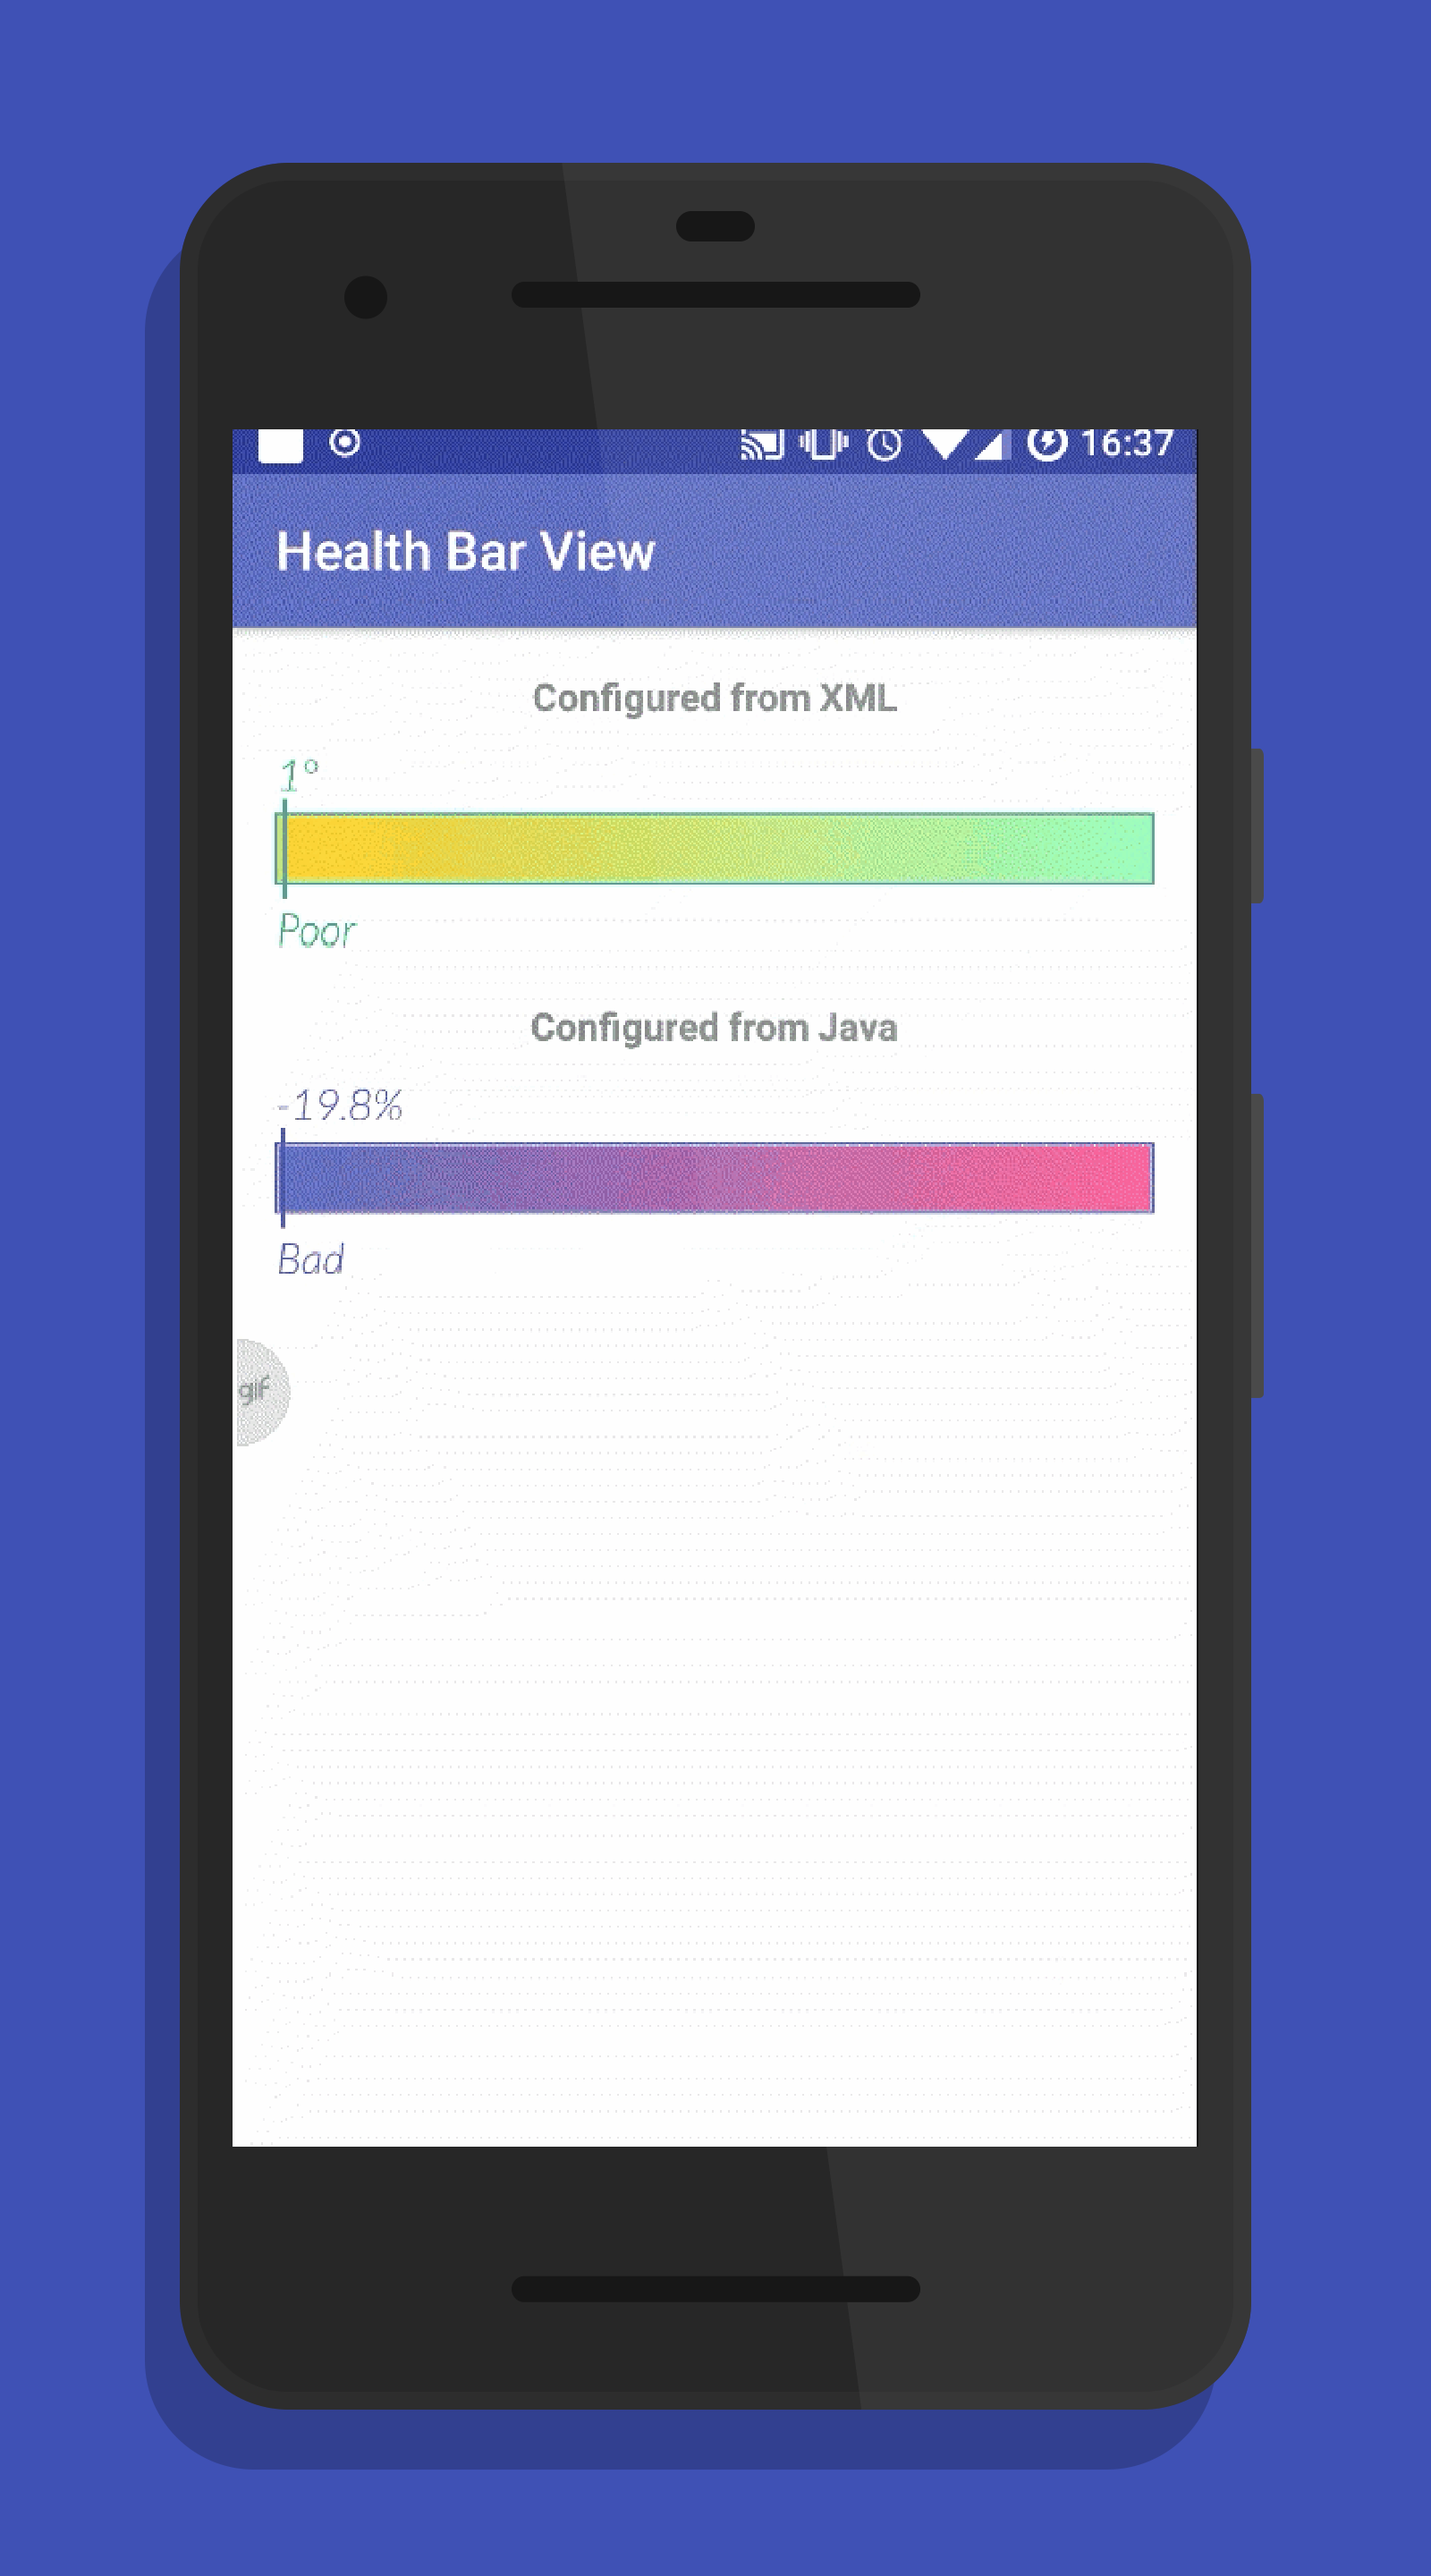
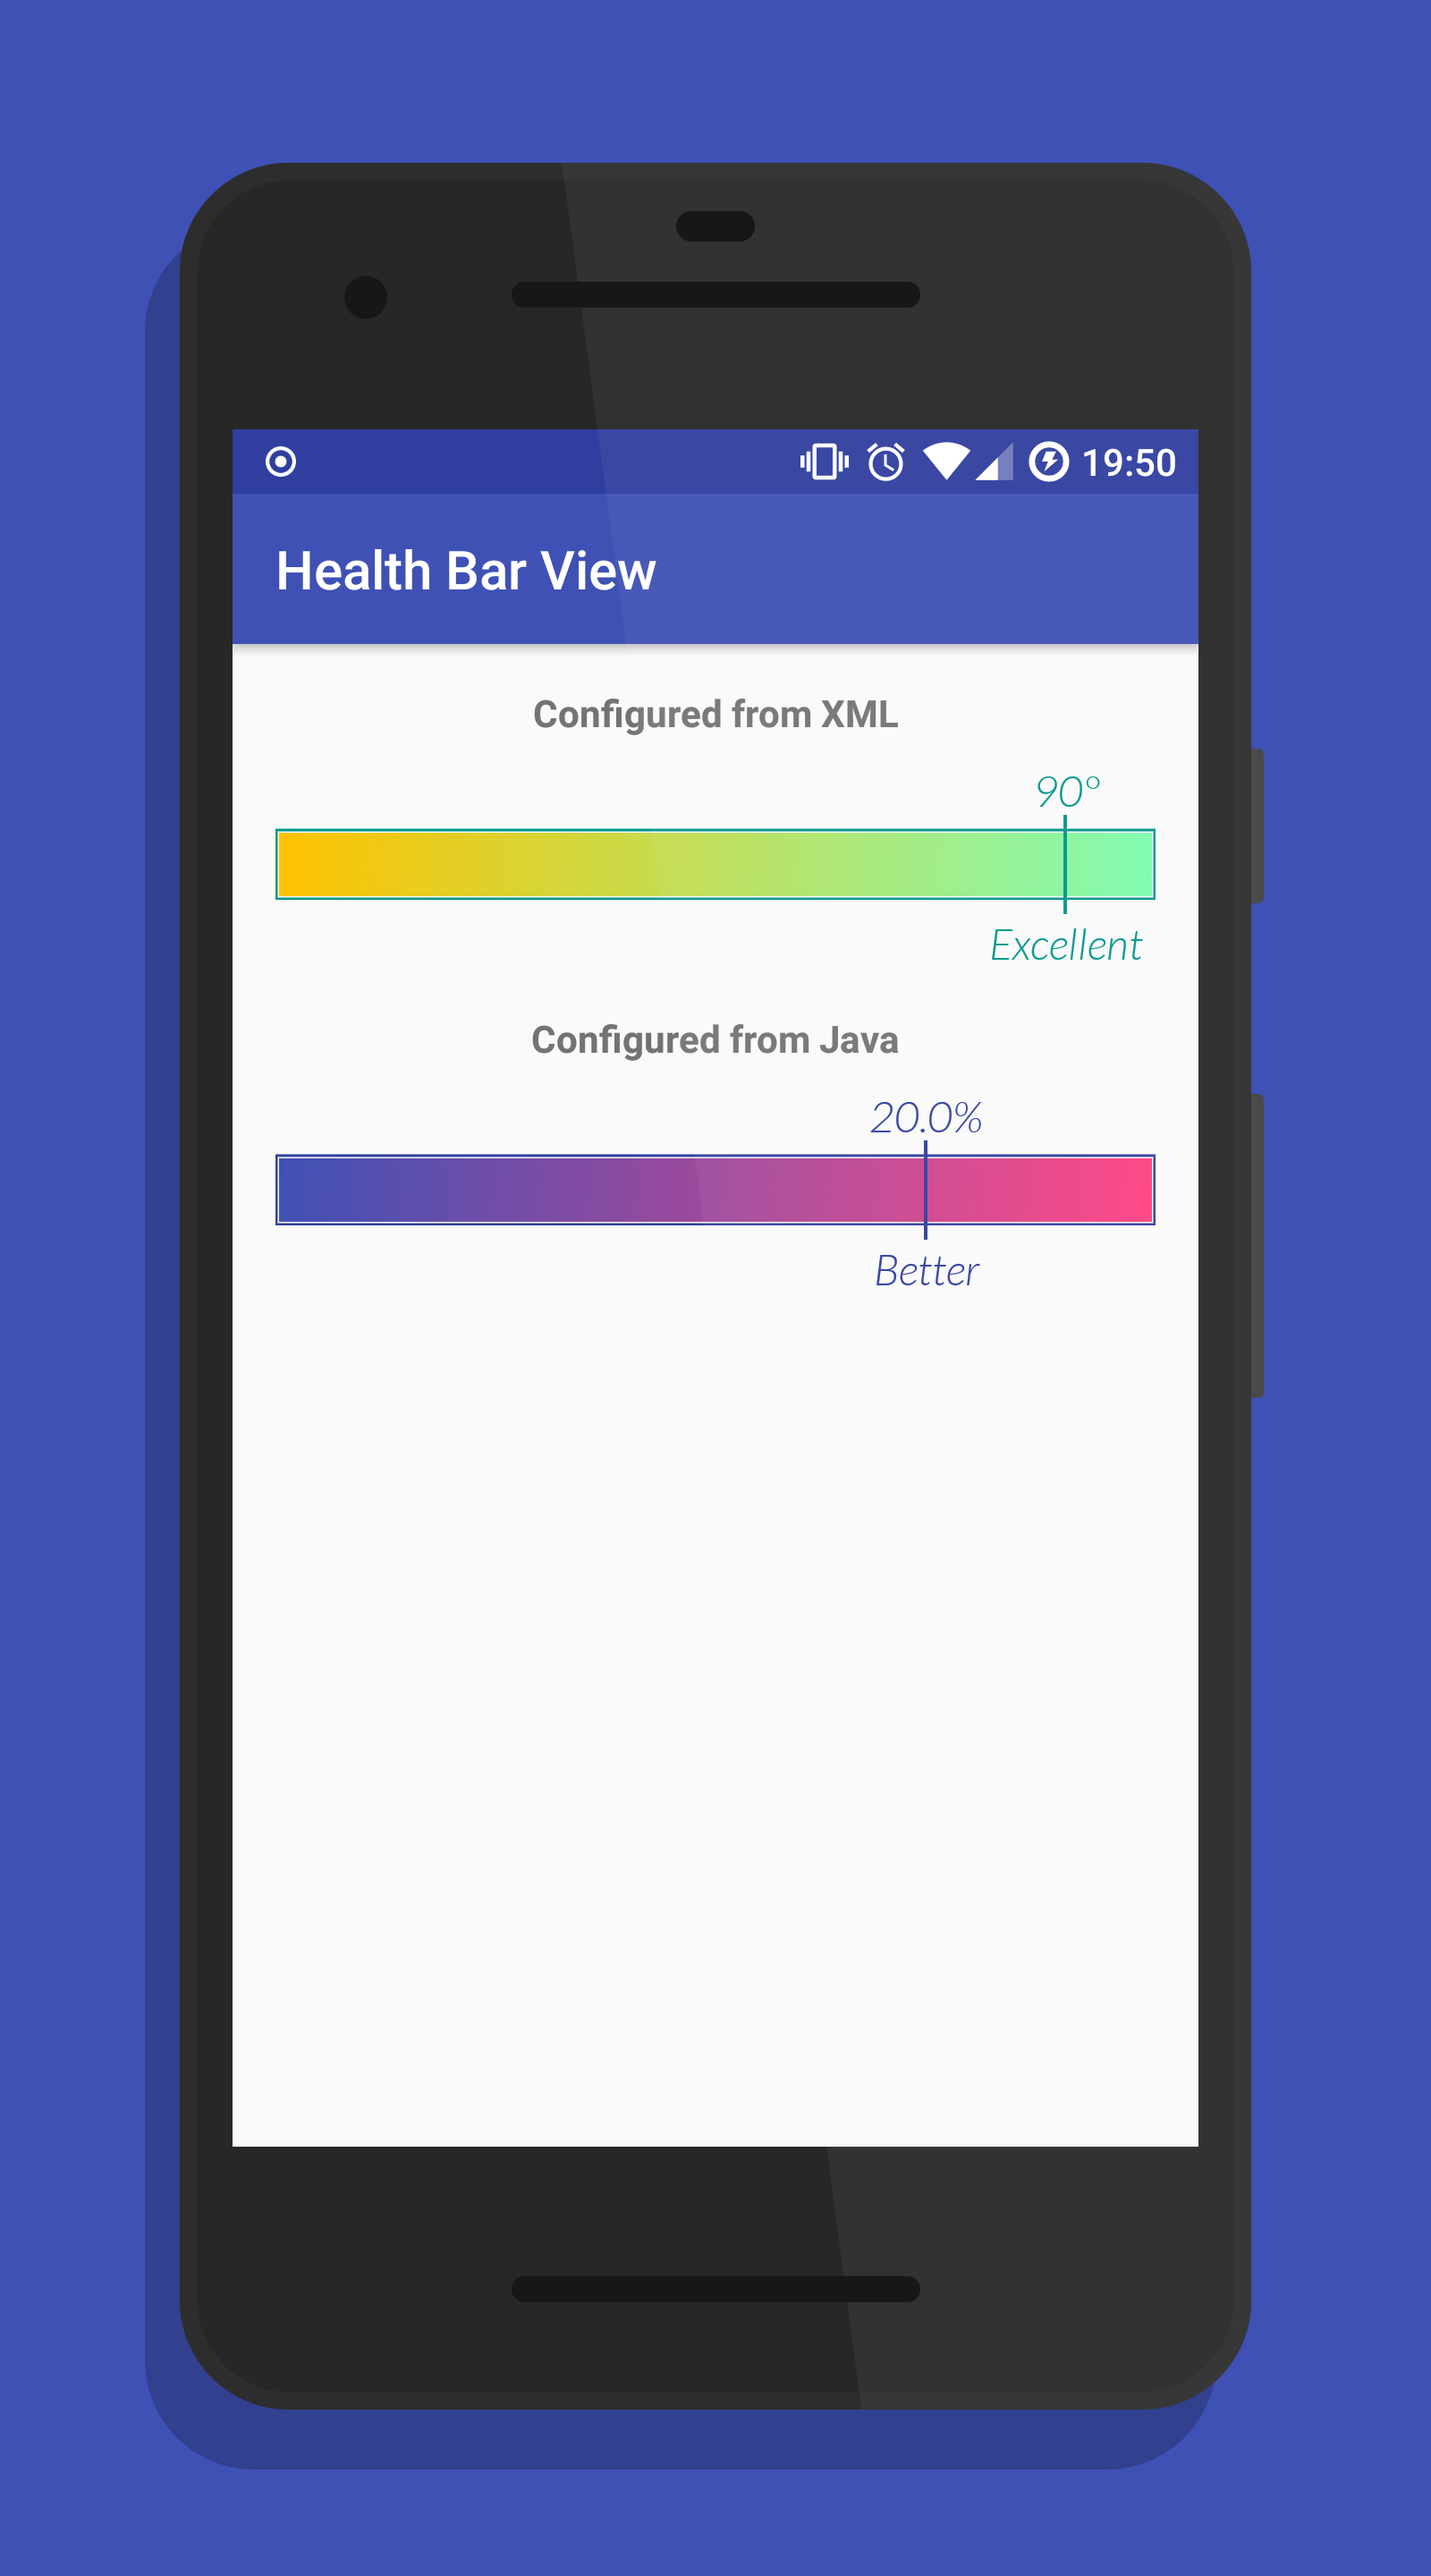
doc: Update README.md and replace main_screen.png

diff --git a/README.md b/README.md
@@ -2,9 +2,11 @@
 
 [![Download](https://api.bintray.com/packages/ogasimli/custom_view/HealtBarView/images/download.svg)](https://bintray.com/ogasimli/custom_view/HealtBarView/_latestVersion)
 
-`HealthBarView` is light library to indicate ViewPager's selected page with different animations and ability to customise it as you need.
+`HealthBarView` is light and fully customizable custom view to draw horizontal bar, fill it with gradientcolor, set value and determine value label automatically based on the provided labels set.
 
 ![](https://raw.githubusercontent.com/ogasimli/HealthBarView/master/misc/assets/main_animation.gif)
+
+![](https://raw.githubusercontent.com/ogasimli/HealthBarView/master/misc/assets/main_screen.png)
 
 ## Integration
 
